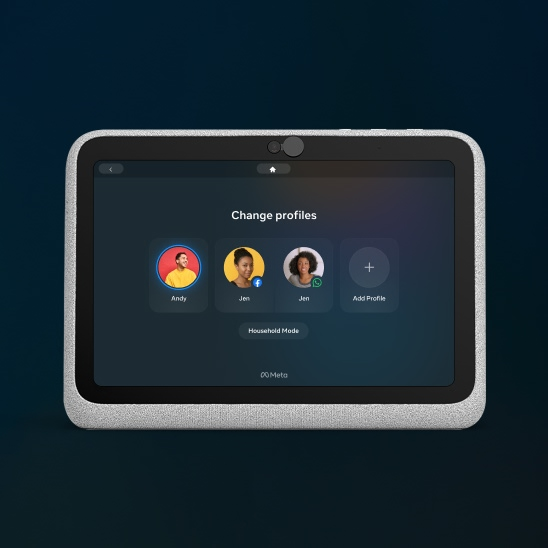
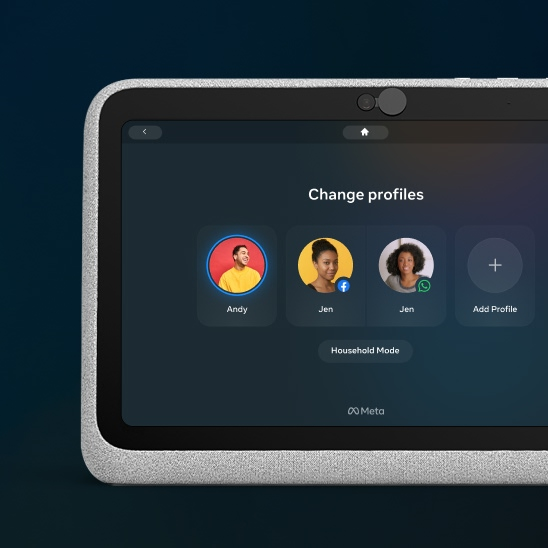
Add Portal and Meta Account tiles to the bento homepage grid.
Fill row 1 and row 3 slots with voice recognition and account center videos, and refresh the account switching screenshot.

diff --git a/index.html b/index.html
@@ -28,7 +28,9 @@
               <article class='bento-cell bento-size-2x1' aria-label='Horizon'>
                 <video class='bento-cell__video' autoplay='true' loop='true' muted='true' playsinline='true' src='/images/home/horizon-world-chat.mp4'></video>
               </article>
-              <article class='bento-cell bento-size-1x1' aria-label='Messenger Kids'></article>
+              <article class='bento-cell bento-size-1x1' aria-label='Portal Voice Recognition'>
+                <video class='bento-cell__video' autoplay='true' loop='true' muted='true' playsinline='true' src='/images/home/portal-voice-recognition.mp4'></video>
+              </article>
               <article class='bento-cell bento-size-1x1' aria-label='Portal Household Mode'>
                 <video class='bento-cell__video' autoplay='true' loop='true' muted='true' playsinline='true' src='/images/home/household-mode-animation.mp4'></video>
               </article>
@@ -59,7 +61,9 @@
               <article class='bento-cell bento-size-1x1' aria-label='Life360 Stickers'>
                 <img class='bento-cell__img' src='/images/home/life360-stickers.png' alt='' />
               </article>
-              <article class='bento-cell bento-size-1x1' aria-label='Life360 Weather'></article>
+              <article class='bento-cell bento-size-1x1' aria-label='Account Center TV'>
+                <video class='bento-cell__video' autoplay='true' loop='true' muted='true' playsinline='true' src='/images/home/account-center-tv.mp4'></video>
+              </article>
 
               <article class='bento-cell bento-size-2x1' aria-label='The Wiki Game'></article>
               <article class='bento-cell bento-size-1x1' aria-label='Placeholder'></article>